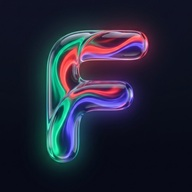
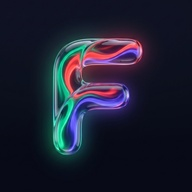
Mas ajustes

Changed region(s): [[0.1875, 0.0938, 0.8125, 0.9062]]

diff --git a/src/services/pwaUpdateService.ts b/src/services/pwaUpdateService.ts
@@ -1,0 +1,83 @@
+import { registerSW } from 'virtual:pwa-register';
+
+/**
+ * PWA Live Update Controller
+ *
+ * Resolves the issue where mobile PWAs (especially iOS WebKit standalone and Android Chrome)
+ * remain on stale cached builds after a deployment unless manually reloaded.
+ *
+ * Features:
+ * 1. Immediate registration on boot without waiting for window load.
+ * 2. Automatic update check on app foreground / resume (`visibilitychange`).
+ * 3. Automatic update check on window focus and network reconnect.
+ * 4. Periodic check every 30 minutes while the app remains open.
+ * 5. Automatic seamless reload when a new service worker takes control (`controllerchange`).
+ */
+
+let isRefreshing = false;
+let updateSW: ((reloadPage?: boolean) => Promise<void>) | null = null;
+
+export function initPWAUpdateService(): void {
+  if (typeof window === 'undefined' || !('serviceWorker' in navigator)) {
+    return;
+  }
+
+  // Track if this window was already controlled by a service worker.
+  // This prevents an unnecessary reload on the user's very first visit.
+  let hasController = Boolean(navigator.serviceWorker.controller);
+
+  navigator.serviceWorker.addEventListener('controllerchange', () => {
+    if (!hasController) {
+      // First time service worker installation - do not reload.
+      hasController = true;
+      return;
+    }
+
+    if (!isRefreshing) {
+      isRefreshing = true;
+      // Reload current window with fresh cache-busted assets from the new Service Worker
+      window.location.reload();
+    }
+  });
+
+  updateSW = registerSW({
+    immediate: true,
+    onNeedRefresh() {
+      // Prompt the new service worker to skip waiting and activate immediately
+      if (updateSW) {
+        updateSW(true);
+      }
+    },
+    onRegisteredSW(_swScriptUrl, registration) {
+      if (!registration) return;
+
+      // 1. Check for updates on startup
+      registration.update().catch(() => {});
+
+      // 2. Check for updates whenever user unlocks phone or switches back to Fluo
+      document.addEventListener('visibilitychange', () => {
+        if (document.visibilityState === 'visible') {
+          registration.update().catch(() => {});
+        }
+      });
+
+      // 3. Check for updates when window gains focus
+      window.addEventListener('focus', () => {
+        registration.update().catch(() => {});
+      });
+
+      // 4. Check for updates when internet connection is restored
+      window.addEventListener('online', () => {
+        registration.update().catch(() => {});
+      });
+
+      // 5. Periodic check every 30 minutes
+      setInterval(() => {
+        registration.update().catch(() => {});
+      }, 30 * 60 * 1000);
+    },
+    onRegisterError(error) {
+      console.warn('[PWA] Service worker registration error:', error);
+    },
+  });
+}

diff --git a/vite.config.ts b/vite.config.ts
@@ -24,6 +24,7 @@ export default defineConfig({
     }),
     VitePWA({
       registerType: 'autoUpdate',
+      injectRegister: null,
       includeAssets: ['favicon.svg', 'icon-180.jpg', 'icon-192.jpg', 'icon-512.jpg'],
       manifest: {
         name: 'Fluo',
@@ -32,6 +33,7 @@ export default defineConfig({
         theme_color: '#0B0F19',
         background_color: '#0B0F19',
         display: 'standalone',
+        display_override: ['standalone', 'minimal-ui'],
         orientation: 'portrait',
         start_url: '/',
         icons: [
@@ -56,6 +58,9 @@ export default defineConfig({
         ],
       },
       workbox: {
+        skipWaiting: true,
+        clientsClaim: true,
+        cleanupOutdatedCaches: true,
         maximumFileSizeToCacheInBytes: 3000000,
         globPatterns: ['**/*.{js,css,html,svg,png,jpg,jpeg,woff2}'],
         runtimeCaching: [

diff --git a/index.html b/index.html
@@ -11,8 +11,12 @@
     <meta name="apple-mobile-web-app-title" content="Fluo" />
     <link rel="apple-touch-icon" href="/icon-180.jpg" />
     
-    <!-- PWA & Theme Colors -->
+    <!-- PWA & Android / Theme Colors -->
+    <meta name="color-scheme" content="dark" />
+    <meta name="mobile-web-app-capable" content="yes" />
     <meta name="theme-color" content="#0B0F19" />
+    <meta name="theme-color" media="(prefers-color-scheme: dark)" content="#0B0F19" />
+    <meta name="theme-color" media="(prefers-color-scheme: light)" content="#0B0F19" />
     <meta name="description" content="Fluo - Gestión inteligente de finanzas personales e inversiones" />
     
     <!-- Security & Hardening: Content Security Policy (CSP) -->

diff --git a/src/index.css b/src/index.css
@@ -88,13 +88,27 @@
   color-scheme: dark;
 }
 
+html {
+  background-color: var(--color-fluo-dark);
+  color-scheme: dark;
+  height: 100%;
+}
+
 body {
   background-color: var(--color-fluo-dark);
   color: #F3F4F6;
   min-height: 100vh;
+  min-height: 100dvh;
+  min-height: -webkit-fill-available;
   margin: 0;
   font-family: system-ui, -apple-system, BlinkMacSystemFont, 'SF Pro Display', 'Segoe UI', Roboto, sans-serif;
   -webkit-font-smoothing: antialiased;
   -moz-osx-font-smoothing: grayscale;
   overflow-x: hidden;
+}
+
+#root {
+  background-color: var(--color-fluo-dark);
+  min-height: 100vh;
+  min-height: 100dvh;
 }

diff --git a/src/main.tsx b/src/main.tsx
@@ -4,6 +4,10 @@ import './index.css'
 import App from './App.tsx'
 import { ErrorBoundary } from './components/common/ErrorBoundary'
 import { AuthProvider } from './context/AuthContext'
+import { initPWAUpdateService } from './services/pwaUpdateService'
+
+// Initialize PWA auto-update lifecycle (checks updates on resume/visibilitychange)
+initPWAUpdateService()
 
 createRoot(document.getElementById('root')!).render(
   <StrictMode>

diff --git a/docs/wiki/04-roadmap-status.md b/docs/wiki/04-roadmap-status.md
@@ -381,17 +381,25 @@ Control de hitos, módulos completados, en desarrollo y planificados para la apl
   - **Gestión de PIN & Bóveda**: Flujo de activación, cambio de PIN de 4 dígitos validado con SHA-256 (`changePin`) y opción de desactivación (`removePin`).
   - **Toggle Biométrico**: Conmutador estilo iOS para activar/desactivar WebAuthn (`toggleBiometrics`).
   - **Cambio de Contraseña**: Integración nativa con `supabase.auth.updateUser({ password })` con alternador de visibilidad (`Eye`/`EyeOff`) y alertas translúcidas.
-### v0.5.18 (Ajustes Ergonómicos de Cabecera, Balance e Isotipo Móvil PWA)
-- **Isotipo PWA & App Icons con Letra 'F' Optimizada**:
-  - Re-encuadre técnico de `public/icon-512.jpg`, `public/icon-192.jpg` y `public/icon-180.jpg` mediante pipeline de interpolación bicúbica de alta precisión.
-  - La letra `F` tubular Liquid Glass incrementa su escala visual ~35%, eliminando el exceso de márgenes negros periféricos y manteniendo las zonas de seguridad (safe bounds) para squircles de iOS y máscaras adaptativas de Android.
-- **Depuración de la Cabecera Superior ([`App.tsx`](file:///c:/Users/santi/Documents/UNI/Fluo/src/App.tsx))**:
-  - Eliminado el icono estático de la nube (`Cloud`).
-  - El botón `Simular` queda condicionado estrictamente al modo Demo (`!user`), ocultándose automáticamente para usuarios con sesión activa donde la recurrencia corre de forma autónoma.
-  - Avatar de perfil con monograma ampliado a `text-base sm:text-lg font-black` (e icono `User` a 20px) para una presencia más nítida y legible.
-- **Simetría y Limpieza en Tarjeta de Balance ([`HeroBalance.tsx`](file:///c:/Users/santi/Documents/UNI/Fluo/src/components/home/HeroBalance.tsx))**:
-  - Eliminado el icono de estrellas (`Sparkles`) previo a la palabra "Rendimiento", logrando una lectura limpia, equilibrada y perfectamente simétrica con la celda de "Tasa de ahorro".
-- **Validación de Calidad**: `npx tsc -b` (0 errores), `npm test` (23/23 tests pasando) y `npx vite build` exitoso.
+### v0.5.19 (PWA Live Updates Automático y Calibración Milimétrica de Isotipo)
+- **Calibración Equilibrada de la 'F' en el Isotipo Móvil**:
+  - Re-escalado suave a factor +23% (crop `415×415`) en `public/icon-512.jpg`, `icon-192.jpg` e `icon-180.jpg`.
+  - Proporción visual armónica: la letra `F` tubular destaca con nitidez sin quedar encajonada, asegurando aire perimetral suficiente para el recorte curvo de Apple y Android.
+- **PWA Live Update Controller ([`pwaUpdateService.ts`](file:///c:/Users/santi/Documents/UNI/Fluo/src/services/pwaUpdateService.ts))**:
+  - Eliminado el problema en el que la PWA móvil servía código obsoleto desde memoria al volver a la app tras un despliegue en Vercel.
+  - Comprobación inmediata ante eventos de reanudación: `visibilitychange` (`document.visibilityState === 'visible'`), `focus` y reconexión de red (`online`) disparan `registration.update()`.
+  - Configuración atómica en VitePWA Workbox: `skipWaiting: true`, `clientsClaim: true`, `cleanupOutdatedCaches: true`.
+  - Detección reactiva de toma de control (`controllerchange`): recarga automática limpia de la ventana para usuarios con sesión activa (sin recargas indeseadas en la primera instalación).
+- **Hardening de Caché Edge en CDN ([`vercel.json`](file:///c:/Users/santi/Documents/UNI/Fluo/vercel.json))**:
+  - Reglas estrictas `Cache-Control: no-cache, no-store, must-revalidate` para `/`, `sw.js`, `workbox-*.js`, `manifest.webmanifest` e `index.html`.
+  - Garantiza que las comprobaciones del navegador móvil consulten siempre el último bundle de producción.
+### v0.5.20 (Soporte Edge-to-Edge Android & Inmersión en Pantalla Completa)
+- **Adaptación Edge-to-Edge para Android y MagicOS / OneUI**:
+  - Declaración nativa de `<meta name="color-scheme" content="dark" />` y `<meta name="mobile-web-app-capable" content="yes" />` en [`index.html`](file:///c:/Users/santi/Documents/UNI/Fluo/index.html).
+  - Duplicación de etiquetas `theme-color` con `(prefers-color-scheme: dark)` y `(prefers-color-scheme: light)` a `#0B0F19` para impedir que el motor Chromium aplique un velo o tinte negro sobre la barra de estado.
+  - Estilización del nodo raíz `html`, `body` y `#root` en [`index.css`](file:///c:/Users/santi/Documents/UNI/Fluo/src/index.css) con `background-color: var(--color-fluo-dark); color-scheme: dark;` y `min-height: 100dvh`, erradicando discrepancias de color en el lienzo base del viewport.
+  - Configuración de `display_override: ['standalone', 'minimal-ui']` en el manifiesto PWA.
+- **Validación de Calidad**: `npx tsc -b` (0 errores), `npm test` (23/23 tests pasando) y `npx vite build` exitoso (539ms).
 
 ---
 

diff --git a/docs/wiki/01-architecture.md b/docs/wiki/01-architecture.md
@@ -402,9 +402,14 @@ Para garantizar alta disponibilidad y cero errores de ruta en producción:
 
 1. **Reescritura Universal de Rutas SPA (`rewrites`)**:
    - `[{ "source": "/(.*)", "destination": "/index.html" }]`: Permite recargas profundas y navegación fluida sin respuestas 404 en el CDN.
-2. **Estrategia de Caché de Capa Edge**:
+2. **Estrategia de Caché de Capa Edge & PWA Live Updates**:
    - **Assets Inmutables**: `/assets/(.*)` con `Cache-Control: public, max-age=31536000, immutable`.
-   - **Documentos Críticos y PWA**: `/index.html`, `/sw.js`, `/manifest.webmanifest` con `Cache-Control: public, max-age=0, must-revalidate` para forzar actualizaciones atómicas inmediatas tras cada despliegue.
+   - **Documentos Críticos y PWA**: `/`, `/index.html`, `/sw.js`, `/workbox-*.js`, `/manifest.webmanifest` con `Cache-Control: no-cache, no-store, must-revalidate` y cabecera `Service-Worker-Allowed: /`, forzando comprobaciones atómicas en tiempo real sin almacenamiento en caché estale en navegadores móviles.
+   - **Controlador de Actualización en Vivo ([`pwaUpdateService.ts`](file:///c:/Users/santi/Documents/UNI/Fluo/src/services/pwaUpdateService.ts))**:
+     - Resuelve el problema histórico de PWAs en móviles (iOS WebKit standalone y Chrome Android) donde procesos suspendidos en RAM sirven código antiguo sin recargar.
+     - Detección inmediata en primer plano: escucha `visibilitychange` (`document.visibilityState === 'visible'`), `focus` y reconexión a red (`online`) para llamar a `registration.update()` al instante cada vez que el usuario vuelve a Fluo.
+     - Activación atómica con Workbox `skipWaiting: true` y `clientsClaim: true`.
+     - Recarga automática fluida ante `controllerchange` (evitando recargas en la primera visita gracias a la comprobación de `hasController`), garantizando que la aplicación móvil siempre corre el último despliegue de Vercel de forma transparente.
 
 ---
 
